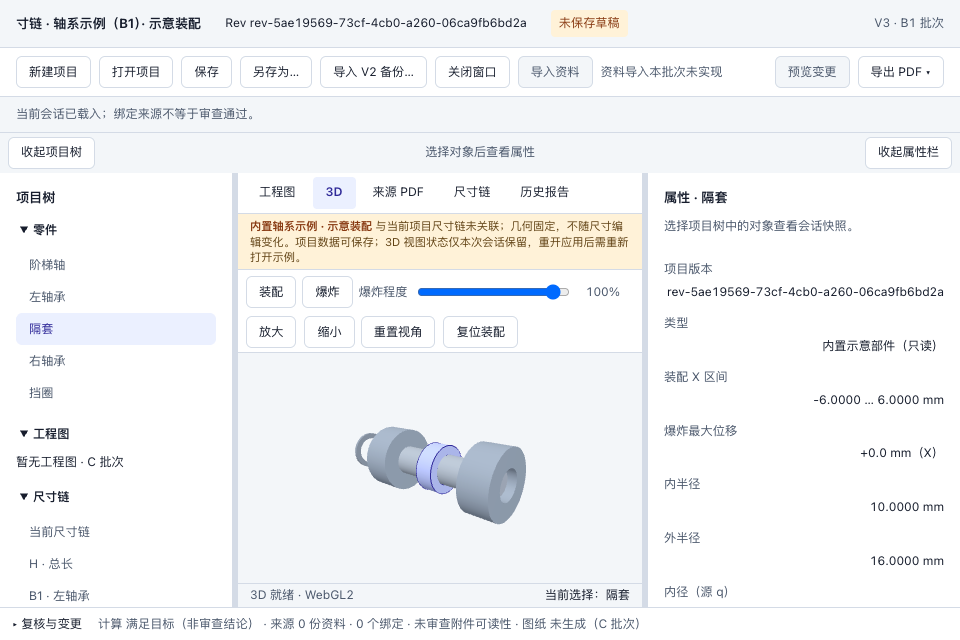
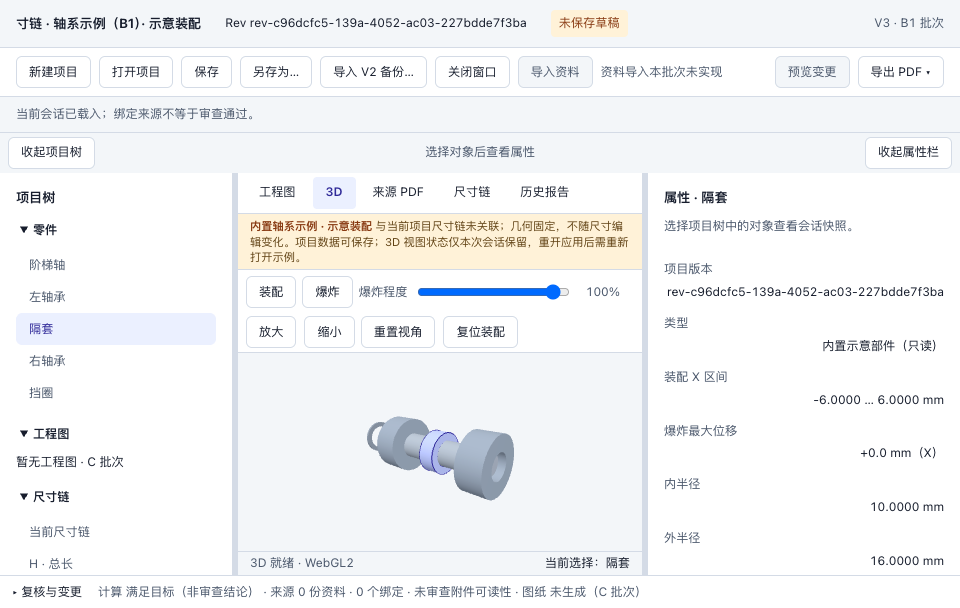
docs(V3-B1): 960×640 改用真实窗口缩放取证（window.resizeTo，outer 960×640 / inner 960×608）
- 之前用 Emulation.setDeviceMetricsOverride 仿真内容视口，不是真实窗口尺寸；
  实测该打包产物的 renderer 可 resizeTo，改为真实 BrowserWindow 缩放，
  保留 Emulation 回退路径（本次未触发）
- 960 截图物理尺寸 960×608，canvas 404×198，无横向溢出、工具条 2 行
- README 同步像素统计与未做项（去掉“真实小窗未验”，补“20 轮存活实例计数未测”）

diff --git a/docs/evidence/V3-B1/README.md b/docs/evidence/V3-B1/README.md
@@ -73,28 +73,29 @@ attributes: antialias=true depth=true preserveDrawingBuffer=false stencil=false
 
 窗口或内容尺寸、canvas 尺寸、DPR 均为实测值（来自 `b1-electron-report.json` 的 `window1440` / `smallWindow`）。
 
-| 截图 | 内容尺寸 | canvas（CSS=backing） | 说明 |
+| 截图 | 窗口 / 内容尺寸 | canvas（CSS=backing） | 说明 |
 |---|---|---|---|
 | `1440-selected-spacer.png` | 窗口 1440×900 / inner 1440×868 | 884×481 | 树选隔套：浅靛蓝 + #3730A3 轮廓，属性栏只读参数 |
 | `1440-exploded-100.png` | 同上 | 884×481 | 爆炸 100%：左右轴承 ±40、挡圈 −76、轴与隔套不动 |
 | `1440-reset-assembly.png` | 同上 | 884×481 | 复位装配：t=0、相机回默认、隔套仍选中 |
 | `3d-degraded.png` | 同上 | —（无 canvas） | 真实 `WEBGL_lose_context` 丢失后局部降级 + 重试，其他标签可用 |
-| `960-selected.png` | 内容 960×640 | 404×230 | 小窗选隔套，工具条 2 行不重叠 |
-| `960-exploded-100.png` | 内容 960×640 | 404×230 | 小窗爆炸 100%，5 件全在画布内 |
-| `960-reset-assembly.png` | 内容 960×640 | 404×230 | 小窗复位装配 |
-| `960-offline-reopened.png` | 内容 960×640 | 716×284 | 阻断 HTTP(S) 重载后重新打开示例 |
+| `960-selected.png` | 窗口 960×640 / inner 960×608 | 404×198 | 小窗选隔套，工具条 2 行不重叠 |
+| `960-exploded-100.png` | 窗口 960×640 / inner 960×608 | 404×198 | 小窗爆炸 100%，5 件全在画布内 |
+| `960-reset-assembly.png` | 窗口 960×640 / inner 960×608 | 404×198 | 小窗复位装配 |
+| `960-offline-reopened.png` | 窗口 960×640 / inner 960×608 | 716×252 | 阻断 HTTP(S) 重载后重新打开示例 |
 
-**960×640 的尺寸取得方式**：`Browser.setWindowBounds` 在该打包产物上不可用（脚本记录了原因），
-改用 CDP `Emulation.setDeviceMetricsOverride` 强制内容视口 960×640。
-它是真实 Electron + 真实 Chromium + 真实 GPU 渲染，但**外层 BrowserWindow 逻辑尺寸仍是 1440×900**，
-不是把真实窗口缩到 960×640。这一点按事实记录，不按“真实小窗”记 PASS。
-真实窗口最小尺寸（960×640，`window.ts` 的 minWidth/minHeight）下的验收请留给 B1-04。
+**960×640 是真实窗口缩放的**：渲染进程调用 `window.resizeTo(960, 640)`，窗口实测
+`outerWidth/outerHeight = 960×640`、`innerWidth/innerHeight = 960×608`（32 px 标题栏），
+与 `desktop/main/window.ts` 的 `minWidth: 960 / minHeight: 640` 一致。
+脚本另外保留了 `Emulation.setDeviceMetricsOverride` 回退路径，本次未触发。
+截图物理尺寸即 960×608，未拉伸伪装。
 
 坏像素证据：截图的 canvas 区域用纯 Node（`node:zlib`）解码后统计颜色多样性，
 1440 选中态 1,114 种颜色 / 8.19% 非背景像素；爆炸态 1,461 / 11.1%；
-960 选中态 748 / 7.61%；960 爆炸态 969 / 10.36%。即画布里确有模型，不是空 canvas。
+960 选中态 707 / 6.56%；960 爆炸态 903 / 8.95%；重载重开 775 / 4.70%。
+即画布里确有模型，不是空 canvas。
 
-## 6. 断言清单（26 项全 PASS）
+## 6. 断言清单（27 项全 PASS）
 
 `b1-electron-report.json` 的 `checks` 数组为原始记录，摘要：
 
@@ -122,14 +123,15 @@ attributes: antialias=true depth=true preserveDrawingBuffer=false stencil=false
    系统网络开关需要额外权限，未擅自改动。
 3. **拖动旋转/平移的“拖动不误选”只在单测覆盖**（4 CSS px 阈值、组合键、多指判定），
    真实指针拖动未在 Electron 中做自动化注入。
-4. **960×640 为内容视口仿真**（见 §5），真实最小窗口尺寸未验。
-5. **DPR=1 路径**：本次显示器未走 2x；`min(dpr,2)` 与降级到 1 的分支只有单测覆盖，
+4. **DPR=1 路径**：本次显示器 `devicePixelRatio=1`，未走 2x；`min(dpr,2)` 与降级到 1 的分支只有单测覆盖，
    真机 2x 表现未测。
+5. **未做 20 次开关/重试的存活实例计数**：单测覆盖了 dispose 幂等与单实例，真实 renderer.info
+   平台期未测（B1-04 项）。
 6. **`npm run test:desktop:e2e` 预先失败，与 B1 无关**：
    `desktop/tests/e2e/smoke.mjs` 仍断言 body 含“桌面壳”、且 `window.cunlian` 只有 4 个键，
    这两条断言早于 A-02/A-04 的 preload 扩展。`git diff ddef951 -- desktop/preload desktop/shared desktop/main desktop/tests/e2e/smoke.mjs`
    为空，本批次未改这些文件；也未顺手改这份冒烟（按分工留给 B1-04）。
-   同一次运行中安全类断言（无通用 IPC 转义口、无远程资源、子框架拿不到桥、关闭屏障）均 PASS。
+   同一次运行中安全类断言（无通用 IPC 逃逸口、无远程资源、子框架拿不到桥、关闭屏障）均 PASS。
 7. **挡圈在装配态几乎被左轴承遮住**（r14 位于 X∈[-29,-27]，紧邻轴承 [-26,-6]）。
    这是任务卡 §3.2 夹具表的给定几何，未擅自改动；爆炸后清晰可见。
 8. 示例持久化按用户拍板只做 renderer 侧车：不新增 IPC、不动 schema；
@@ -138,5 +140,5 @@ attributes: antialias=true depth=true preserveDrawingBuffer=false stencil=false
 ## 8. 文件
 
 - `capture.mjs`：CDP 采集脚本（含纯 Node PNG 解码，用于截图像素断言）
-- `b1-electron-report.json`：26 项检查的原始结果 + 全部尺寸/探针测量值
+- `b1-electron-report.json`：27 项检查的原始结果 + 全部尺寸/探针测量值
 - 8 张 PNG 截图
